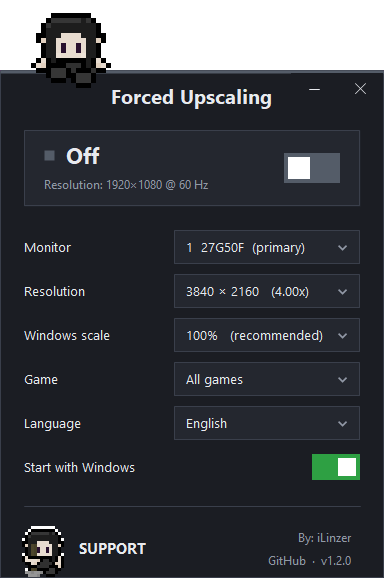
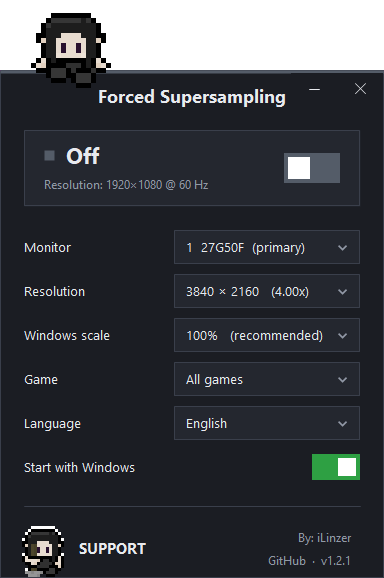
Rename to Forced Supersampling and add before and after pictures
The app renders above the screen size and the GPU scales the picture down, which is supersampling, not upscaling. The name now says that.

- New name in the window, tray, texts, README, build and releases. The settings folder, the autostart entry and the internal names keep the old spelling so nobody loses their settings.
- The autostart entry follows the exe if it was renamed or moved.
- Before and after pictures in both READMEs, One Piece: Pirate Warriors 3 first.
- README mentions that Windows would not change the resolution with two monitors connected and the app does.
- Title font a little smaller so the longer name clears the minimize button.
- New window screenshots, version 1.2.1.

Changed region(s): [[0.25, 0.1557, 0.75, 0.1869]]

diff --git a/src/Loc.cs b/src/Loc.cs
@@ -16,8 +16,8 @@ namespace ForcedUpscaling
         {
             { "open", new[] { "Open", "Abrir", "打开", "Abrir" } },
             { "resolution", new[] { "Resolution: {0}×{1} @ {2} Hz", "Resolução: {0}×{1} a {2} Hz", "分辨率：{0}×{1} @ {2} Hz", "Resolución: {0}×{1} a {2} Hz" } },
-            { "enable", new[] { "Turn on Forced Upscaling", "Ativar Forced Upscaling", "开启 Forced Upscaling", "Activar Forced Upscaling" } },
-            { "disable", new[] { "Forced Upscaling is on (click to turn off)", "Forced Upscaling ativo (clique para desativar)", "Forced Upscaling 已开启（点击关闭）", "Forced Upscaling activo (clic para desactivar)" } },
+            { "enable", new[] { "Turn on Forced Supersampling", "Ativar Forced Supersampling", "开启 Forced Supersampling", "Activar Forced Supersampling" } },
+            { "disable", new[] { "Forced Supersampling is on (click to turn off)", "Forced Supersampling ativo (clique para desativar)", "Forced Supersampling 已开启（点击关闭）", "Forced Supersampling activo (clic para desactivar)" } },
             { "monitor", new[] { "Monitor", "Monitor", "显示器", "Monitor" } },
             { "primary", new[] { "primary", "principal", "主显示器", "principal" } },
             { "res", new[] { "Resolution", "Resolução", "分辨率", "Resolución" } },
@@ -44,15 +44,15 @@ namespace ForcedUpscaling
             { "close", new[] { "Close", "Fechar", "关闭", "Cerrar" } },
             { "no_modes", new[] { "No DSR resolutions available", "Nenhuma resolução DSR disponível", "没有可用的 DSR 分辨率", "No hay resoluciones DSR disponibles" } },
             { "no_monitor", new[] { "Main monitor not found", "Monitor principal não encontrado", "未找到主显示器", "No se encontró el monitor principal" } },
-            { "tip_on", new[] { "Forced Upscaling: on ({0}×{1})", "Forced Upscaling: ativo ({0}×{1})", "Forced Upscaling：已开启（{0}×{1}）", "Forced Upscaling: activo ({0}×{1})" } },
-            { "tip_off", new[] { "Forced Upscaling: off", "Forced Upscaling: desativado", "Forced Upscaling：已关闭", "Forced Upscaling: desactivado" } },
-            { "on_title", new[] { "Forced Upscaling is on", "Forced Upscaling ativo", "Forced Upscaling 已开启", "Forced Upscaling activo" } },
+            { "tip_on", new[] { "Forced Supersampling: on ({0}×{1})", "Forced Supersampling: ativo ({0}×{1})", "Forced Supersampling：已开启（{0}×{1}）", "Forced Supersampling: activo ({0}×{1})" } },
+            { "tip_off", new[] { "Forced Supersampling: off", "Forced Supersampling: desativado", "Forced Supersampling：已关闭", "Forced Supersampling: desactivado" } },
+            { "on_title", new[] { "Forced Supersampling is on", "Forced Supersampling ativo", "Forced Supersampling 已开启", "Forced Supersampling activo" } },
             { "on_text", new[] {
                 "{0}×{1} on the main monitor. Open your game and turn it off here when you are done.",
                 "{0}×{1} no monitor principal. Abra o jogo e, ao terminar, desative aqui.",
                 "主显示器已切换到 {0}×{1}。请启动游戏，用完后在这里关闭。",
                 "{0}×{1} en el monitor principal. Abre el juego y desactívalo aquí al terminar." } },
-            { "off_title", new[] { "Forced Upscaling is off", "Forced Upscaling desativado", "Forced Upscaling 已关闭", "Forced Upscaling desactivado" } },
+            { "off_title", new[] { "Forced Supersampling is off", "Forced Supersampling desativado", "Forced Supersampling 已关闭", "Forced Supersampling desactivado" } },
             { "off_text", new[] { "The main monitor is back to {0}×{1}.", "O monitor principal voltou a {0}×{1}.", "主显示器已恢复为 {0}×{1}。", "El monitor principal vuelve a {0}×{1}." } },
             { "fail_title", new[] { "Could not turn it on", "Não foi possível ativar", "无法开启", "No se pudo activar" } },
             { "fail", new[] {

diff --git a/src/Settings.cs b/src/Settings.cs
@@ -7,6 +7,8 @@ using System.Windows.Forms;
 namespace ForcedUpscaling
 {
     // Plain key=value file in %APPDATA%\ForcedUpscaling
+    // The app used to be called Forced Upscaling. The folder, the autostart entry and the
+    // internal names keep the old spelling so nobody loses their settings after updating.
     class Settings
     {
         readonly string path;
@@ -90,6 +92,30 @@ namespace ForcedUpscaling
                 using (RegistryKey k = Registry.CurrentUser.OpenSubKey(RunKey))
                     return k != null && k.GetValue(ValueName) != null;
             }
+        }
+
+        // If the autostart entry points to a file that is gone, or to an older name of this
+        // exe in the same folder (the app was renamed), point it at the running exe.
+        public static void Refresh()
+        {
+            try
+            {
+                using (RegistryKey k = Registry.CurrentUser.OpenSubKey(RunKey, true))
+                {
+                    string current = k == null ? null : k.GetValue(ValueName) as string;
+                    if (string.IsNullOrEmpty(current)) return;
+                    string registered = current.Trim();
+                    if (registered.StartsWith("\"")) registered = registered.Substring(1, Math.Max(0, registered.IndexOf('"', 1) - 1));
+                    else if (registered.EndsWith(" --background")) registered = registered.Substring(0, registered.Length - " --background".Length);
+
+                    string running = Application.ExecutablePath;
+                    if (string.Equals(registered, running, StringComparison.OrdinalIgnoreCase)) return;
+                    bool gone = !File.Exists(registered);
+                    bool sameFolder = string.Equals(Path.GetDirectoryName(registered), Path.GetDirectoryName(running), StringComparison.OrdinalIgnoreCase);
+                    if (gone || sameFolder) k.SetValue(ValueName, "\"" + running + "\" --background");
+                }
+            }
+            catch (Exception ex) { Log.Write(ex); }
         }
 
         public static void Set(bool on)

diff --git a/src/MainWindow.cs b/src/MainWindow.cs
@@ -70,7 +70,7 @@ namespace ForcedUpscaling
             TransparencyKey = Theme.Key;
             DoubleBuffered = true;
             ShowInTaskbar = true;
-            Text = "Forced Upscaling";
+            Text = "Forced Supersampling";
             iconOn = Icons.Load(true, 32);
             iconOff = Icons.Load(false, 32);
 
@@ -260,7 +260,8 @@ namespace ForcedUpscaling
             Font[] old = { textFont, boldFont, bigFont, smallFont, supportFont };
 
             textFont = new Font(family, 9.5f);
-            boldFont = new Font(family, 15f, FontStyle.Bold);
+            // the title is longer now, 13 keeps it clear of the minimize button
+            boldFont = new Font(family, 13f, FontStyle.Bold);
             bigFont = new Font(family, 16f, FontStyle.Bold);
             smallFont = new Font(family, 9f);
             supportFont = new Font(family, 11f, FontStyle.Bold);
@@ -367,7 +368,7 @@ namespace ForcedUpscaling
             using (Pen p = new Pen(Theme.Border)) g.DrawRectangle(p, 0, PanelTop, W - 1, H - PanelTop - 1);
             using (Brush b = new SolidBrush(isOn ? Theme.Accent : Theme.Off)) g.FillRectangle(b, 0, PanelTop, W, 3);
 
-            TextRenderer.DrawText(g, "Forced Upscaling", boldFont, new Rectangle(0, PanelTop + 3, W, 45), Theme.Text,
+            TextRenderer.DrawText(g, "Forced Supersampling", boldFont, new Rectangle(0, PanelTop + 3, W, 45), Theme.Text,
                 TextFormatFlags.HorizontalCenter | TextFormatFlags.VerticalCenter | TextFormatFlags.NoPadding);
 
             // status card

diff --git a/src/Program.cs b/src/Program.cs
@@ -7,10 +7,10 @@ namespace ForcedUpscaling
 {
     static class App
     {
-        public const string Version = "1.2.0";
+        public const string Version = "1.2.1";
         public const string SupportUrl = "https://github.com/sponsors/Linzer-Cyberheart";
         public const string ChannelUrl = "https://www.youtube.com/@iLinzer?sub_confirmation=1";
-        public const string RepoUrl = "https://github.com/Linzer-Cyberheart/ForcedUpscaling";
+        public const string RepoUrl = "https://github.com/Linzer-Cyberheart/ForcedSupersampling";
 
         public static void Open(string url)
         {
@@ -42,6 +42,7 @@ namespace ForcedUpscaling
 
                 Settings settings = new Settings();
                 Loc.Set(settings.Get("lang", Loc.Detect()));
+                Autostart.Refresh();
 
                 // Started by Windows at logon: stay in the tray, don't open the window.
                 bool background = Array.IndexOf(args, "--background") >= 0;

diff --git a/src/AssemblyInfo.cs b/src/AssemblyInfo.cs
@@ -1,7 +1,7 @@
 using System.Reflection;
 
-[assembly: AssemblyTitle("Forced Upscaling")]
+[assembly: AssemblyTitle("Forced Supersampling")]
 [assembly: AssemblyDescription("Render games above your monitor resolution with DSR, for any game, with one click.")]
-[assembly: AssemblyProduct("Forced Upscaling")]
-[assembly: AssemblyVersion("1.2.0.0")]
-[assembly: AssemblyFileVersion("1.2.0.0")]
+[assembly: AssemblyProduct("Forced Supersampling")]
+[assembly: AssemblyVersion("1.2.1.0")]
+[assembly: AssemblyFileVersion("1.2.1.0")]

diff --git a/README.pt-BR.md b/README.pt-BR.md
@@ -1,8 +1,8 @@
 <p align="center">
-  <img src="assets/logo.png" width="96" alt="Logo do Forced Upscaling">
+  <img src="assets/logo.png" width="96" alt="Logo do Forced Supersampling">
 </p>
 
-<h1 align="center">Forced Upscaling</h1>
+<h1 align="center">Forced Supersampling</h1>
 
 <p align="center">
   Faça os jogos renderizarem acima da resolução do seu monitor com o DSR da NVIDIA e deixe a placa de vídeo reduzir a imagem depois.<br>
@@ -10,10 +10,10 @@
 </p>
 
 <p align="center">
-  <a href="https://github.com/Linzer-Cyberheart/ForcedUpscaling/releases/latest"><img alt="Última versão" src="https://img.shields.io/github/v/release/Linzer-Cyberheart/ForcedUpscaling"></a>
-  <a href="LICENSE"><img alt="Licença" src="https://img.shields.io/github/license/Linzer-Cyberheart/ForcedUpscaling"></a>
+  <a href="https://github.com/Linzer-Cyberheart/ForcedSupersampling/releases/latest"><img alt="Última versão" src="https://img.shields.io/github/v/release/Linzer-Cyberheart/ForcedSupersampling"></a>
+  <a href="LICENSE"><img alt="Licença" src="https://img.shields.io/github/license/Linzer-Cyberheart/ForcedSupersampling"></a>
   <img alt="Windows" src="https://img.shields.io/badge/plataforma-Windows-0078D4">
-  <img alt="Downloads" src="https://img.shields.io/github/downloads/Linzer-Cyberheart/ForcedUpscaling/total">
+  <img alt="Downloads" src="https://img.shields.io/github/downloads/Linzer-Cyberheart/ForcedSupersampling/total">
 </p>
 
 <p align="center">
@@ -21,9 +21,15 @@
 </p>
 
 <p align="center">
-  <img src="docs/window-on.png" width="320" alt="Janela do Forced Upscaling ligado">
+  <img src="docs/compare/one-piece-pirate-warriors-3.jpg" width="880" alt="One Piece: Pirate Warriors 3, Forced Supersampling desligado à esquerda e ligado à direita">
+  <br>
+  <sub>One Piece: Pirate Warriors 3. Desligado à esquerda, ligado à direita. Só o programa ligado, nada específico do jogo.</sub>
+</p>
+
+<p align="center">
+  <img src="docs/window-on.png" width="320" alt="Janela do Forced Supersampling ligado">
   &nbsp;&nbsp;
-  <img src="docs/window-off.png" width="320" alt="Janela do Forced Upscaling desligado">
+  <img src="docs/window-off.png" width="320" alt="Janela do Forced Supersampling desligado">
 </p>
 
 ## O que ele faz
@@ -32,15 +38,43 @@ Muitos jogos de PC, principalmente os mais antigos e as conversões de console, 
 
 O DSR (Dynamic Super Resolution) da NVIDIA faz o Windows oferecer resoluções maiores do que o monitor consegue exibir, por exemplo 3840 x 2160 em uma tela 1080p. A placa renderiza nesse tamanho e reduz o resultado para caber. Isso é supersampling: as bordas ficam mais suaves e os detalhes mais limpos, sem mexer nas configurações do jogo.
 
-O Forced Upscaling coloca isso atrás de um ícone na bandeja. Ligue, abra qualquer jogo, desligue quando terminar.
+O Forced Supersampling coloca isso atrás de um ícone na bandeja. Ligue, abra qualquer jogo, desligue quando terminar.
 
 Fiz para o OneeChanbara Origin. O arquivo de configuração dele tem a opção 3840 x 2160, mas em modo sem borda o jogo ignora e desenha no tamanho da área de trabalho. Com a área de trabalho em 4K, o jogo finalmente renderiza em 4K.
+
+## Mais antes e depois
+
+Desligado à esquerda, ligado à direita, no mesmo ponto do jogo.
+
+<p align="center">
+  <img src="docs/compare/onechanbara-origin-1.jpg" width="880" alt="OneeChanbara Origin, desligado à esquerda e ligado à direita">
+  <br>
+  <sub>OneeChanbara Origin. Só o programa ligado.</sub>
+</p>
+
+<p align="center">
+  <img src="docs/compare/onechanbara-origin-2.jpg" width="880" alt="OneeChanbara Origin, desligado à esquerda e ligado à direita">
+  <br>
+  <sub>OneeChanbara Origin. Só o programa ligado.</sub>
+</p>
+
+<p align="center">
+  <img src="docs/compare/onechanbara-z2-chaos.jpg" width="880" alt="Onechanbara Z2: Chaos, desligado à esquerda e ligado à direita">
+  <br>
+  <sub>Onechanbara Z2: Chaos, com o ajuste "Resolução interna".</sub>
+</p>
+
+<p align="center">
+  <img src="docs/compare/dw8-empires.jpg" width="880" alt="Dynasty Warriors 8 Empires, desligado à esquerda e ligado à direita">
+  <br>
+  <sub>Dynasty Warriors 8 Empires, com a correção do jogo.</sub>
+</p>
 
 ## Recursos
 
 - Um clique pela bandeja ou pela janela, sem instalação, um único `.exe`
 - Funciona com qualquer jogo que renderize no tamanho da área de trabalho (modo sem borda e em janela)
-- Vários monitores: você escolhe qual usar, os outros mantêm a resolução
+- Funciona com mais de um monitor: você escolhe qual usar, os outros mantêm a resolução. No meu PC o Windows não deixava trocar a resolução com dois monitores conectados, e o app resolve isso
 - Escolha a resolução (1.50x, 2.00x, 4.00x, o que o seu driver oferecer)
 - Controla a escala do Windows enquanto está ligado, assim jogos antigos que não entendem DPI recebem a resolução real
 - Tudo é temporário. Nada é gravado no registro e reiniciar sempre devolve o monitor ao normal
@@ -50,9 +84,11 @@ Fiz para o OneeChanbara Origin. O arquivo de configuração dele tem a opção 3
 
 ## Download
 
-1. Baixe o `ForcedUpscaling.exe` na [última versão](https://github.com/Linzer-Cyberheart/ForcedUpscaling/releases/latest).
+1. Baixe o `ForcedSupersampling.exe` na [última versão](https://github.com/Linzer-Cyberheart/ForcedSupersampling/releases/latest).
 2. Coloque em uma pasta que você não vai apagar. Se ativar "Iniciar com o Windows", ele abre a partir dela.
 3. Execute. A janela abre e um ícone aparece na bandeja.
+
+O Forced Supersampling se chamava Forced Upscaling até a versão 1.2.0. É o mesmo app e suas configurações continuam. Se você usa "Iniciar com o Windows", a entrada se corrige sozinha na primeira vez que abrir o novo exe, e dá para apagar o antigo.
 
 O Windows SmartScreen pode reclamar na primeira vez, porque o arquivo não é assinado. Se preferir não confiar em um exe qualquer, o código-fonte é curto e o `build.bat` compila em alguns segundos (veja abaixo).
 
@@ -107,7 +143,7 @@ A maioria dos jogos em tela cheia exclusiva lista as resoluções DSR no própri
 Vai. 3840 x 2160 tem quatro vezes os pixels de 1920 x 1080, então a placa trabalha bem mais. Se o 4K pesar demais, teste 1.50x ou 2.00x.
 
 **E os meus outros monitores?**
-Só o monitor que você escolher na janela (ou no menu da bandeja) muda. Os outros mantêm a resolução. Enquanto um monitor está no modo maior, o Windows pode posicionar os vizinhos de um jeito um pouco diferente, e eles voltam quando você desliga.
+Só o monitor que você escolher na janela (ou no menu da bandeja) muda. Os outros mantêm a resolução. Funciona com dois monitores conectados, o que o próprio Windows se recusava a fazer no meu PC. Enquanto um monitor está no modo maior, o Windows pode posicionar os vizinhos de um jeito um pouco diferente, e eles voltam quando você desliga.
 
 **AMD ou Intel?**
 O app pede ao Windows qualquer resolução maior que a atual com a mesma proporção, então o que o seu driver listar aparece, inclusive o VSR da AMD. Só testei em NVIDIA, então não prometo nada.
@@ -126,7 +162,7 @@ Basta o Windows. O compilador de C# que acompanha o .NET Framework 4 é suficien
 build.bat
 ```
 
-O resultado é `bin\ForcedUpscaling.exe`, com os ícones e as animações embutidos.
+O resultado é `bin\ForcedSupersampling.exe`, com os ícones e as animações embutidos.
 
 ## Como funciona
 

diff --git a/README.md b/README.md
@@ -1,8 +1,8 @@
 <p align="center">
-  <img src="assets/logo.png" width="96" alt="Forced Upscaling logo">
+  <img src="assets/logo.png" width="96" alt="Forced Supersampling logo">
 </p>
 
-<h1 align="center">Forced Upscaling</h1>
+<h1 align="center">Forced Supersampling</h1>
 
 <p align="center">
   Make games render above your monitor's resolution with NVIDIA DSR, then let the GPU scale the picture back down.<br>
@@ -10,10 +10,10 @@
 </p>
 
 <p align="center">
-  <a href="https://github.com/Linzer-Cyberheart/ForcedUpscaling/releases/latest"><img alt="Latest release" src="https://img.shields.io/github/v/release/Linzer-Cyberheart/ForcedUpscaling"></a>
-  <a href="LICENSE"><img alt="License" src="https://img.shields.io/github/license/Linzer-Cyberheart/ForcedUpscaling"></a>
+  <a href="https://github.com/Linzer-Cyberheart/ForcedSupersampling/releases/latest"><img alt="Latest release" src="https://img.shields.io/github/v/release/Linzer-Cyberheart/ForcedSupersampling"></a>
+  <a href="LICENSE"><img alt="License" src="https://img.shields.io/github/license/Linzer-Cyberheart/ForcedSupersampling"></a>
   <img alt="Windows" src="https://img.shields.io/badge/platform-Windows-0078D4">
-  <img alt="Downloads" src="https://img.shields.io/github/downloads/Linzer-Cyberheart/ForcedUpscaling/total">
+  <img alt="Downloads" src="https://img.shields.io/github/downloads/Linzer-Cyberheart/ForcedSupersampling/total">
 </p>
 
 <p align="center">
@@ -21,9 +21,15 @@
 </p>
 
 <p align="center">
-  <img src="docs/window-on.png" width="320" alt="Forced Upscaling window, turned on">
+  <img src="docs/compare/one-piece-pirate-warriors-3.jpg" width="880" alt="One Piece: Pirate Warriors 3, Forced Supersampling off on the left and on on the right">
+  <br>
+  <sub>One Piece: Pirate Warriors 3. Off on the left, on on the right. Just the program turned on, nothing specific to the game.</sub>
+</p>
+
+<p align="center">
+  <img src="docs/window-on.png" width="320" alt="Forced Supersampling window, turned on">
   &nbsp;&nbsp;
-  <img src="docs/window-off.png" width="320" alt="Forced Upscaling window, turned off">
+  <img src="docs/window-off.png" width="320" alt="Forced Supersampling window, turned off">
 </p>
 
 ## What it does
@@ -32,15 +38,43 @@ A lot of PC games, mostly older ones and console ports, run in borderless window
 
 NVIDIA's DSR (Dynamic Super Resolution) lets Windows offer resolutions higher than your monitor can display, for example 3840 x 2160 on a 1080p screen. The GPU renders at that size and scales the result down to fit. That is supersampling: edges get smoother and fine detail gets cleaner, without touching the game's own settings.
 
-Forced Upscaling puts that behind a tray icon. Turn it on, start any game, turn it off when you're done.
+Forced Supersampling puts that behind a tray icon. Turn it on, start any game, turn it off when you're done.
 
 I made it for OneeChanbara Origin. Its config file has a 3840 x 2160 option, but in borderless mode the game ignores it and draws at your desktop size. With the desktop in 4K, the game finally renders in 4K.
+
+## More before and after
+
+Off on the left, on on the right, same spot in the game.
+
+<p align="center">
+  <img src="docs/compare/onechanbara-origin-1.jpg" width="880" alt="OneeChanbara Origin, off on the left and on on the right">
+  <br>
+  <sub>OneeChanbara Origin. Only the program turned on.</sub>
+</p>
+
+<p align="center">
+  <img src="docs/compare/onechanbara-origin-2.jpg" width="880" alt="OneeChanbara Origin, off on the left and on on the right">
+  <br>
+  <sub>OneeChanbara Origin. Only the program turned on.</sub>
+</p>
+
+<p align="center">
+  <img src="docs/compare/onechanbara-z2-chaos.jpg" width="880" alt="Onechanbara Z2: Chaos, off on the left and on on the right">
+  <br>
+  <sub>Onechanbara Z2: Chaos, with the "Internal resolution" setting.</sub>
+</p>
+
+<p align="center">
+  <img src="docs/compare/dw8-empires.jpg" width="880" alt="Dynasty Warriors 8 Empires, off on the left and on on the right">
+  <br>
+  <sub>Dynasty Warriors 8 Empires, with its game fix.</sub>
+</p>
 
 ## Features
 
 - One click from the tray icon or the window, no install, a single `.exe`
 - Works with any game that renders at the desktop size (borderless and windowed modes)
-- Multiple monitors: you choose which one to use, the others keep their resolution
+- Works with more than one monitor: you choose which one to use, the others keep their resolution. On my PC Windows would not let me change the resolution with two monitors connected, and the app handles it
 - Pick the resolution you want (1.50x, 2.00x, 4.00x, whatever your driver offers)
 - Controls the Windows scale while it's on, so old games that don't understand DPI settings still get the real resolution
 - Everything is temporary. Nothing is written to the registry, and a reboot always brings your monitor back
@@ -50,9 +84,11 @@ I made it for OneeChanbara Origin. Its config file has a 3840 x 2160 option, but
 
 ## Download
 
-1. Get `ForcedUpscaling.exe` from the [latest release](https://github.com/Linzer-Cyberheart/ForcedUpscaling/releases/latest).
+1. Get `ForcedSupersampling.exe` from the [latest release](https://github.com/Linzer-Cyberheart/ForcedSupersampling/releases/latest).
 2. Put it in a folder you won't delete. If you turn on "Start with Windows" it launches from there.
 3. Run it. The window opens and an icon shows up in the tray.
+
+Forced Supersampling was called Forced Upscaling until version 1.2.0. It is the same app and your settings carry over. If you use "Start with Windows", the entry fixes itself the first time you open the new exe, and you can delete the old one.
 
 Windows SmartScreen may complain the first time, because the file isn't code signed. If you'd rather not trust a random exe, the source is short and `build.bat` builds it in a few seconds (see below).
 
@@ -107,7 +143,7 @@ Most exclusive fullscreen games list the DSR resolutions in their own menu, so y
 Yes. 3840 x 2160 is four times the pixels of 1920 x 1080, so the GPU has a lot more work. Try 1.50x or 2.00x if 4K is too heavy.
 
 **What happens to my other monitors?**
-Only the monitor you pick in the window (or the tray menu) changes. The others keep their resolution. While one monitor is in the bigger mode, Windows may place its neighbors a bit differently, and they go back when you turn the mode off.
+Only the monitor you pick in the window (or the tray menu) changes. The others keep their resolution. This works with two monitors connected, which Windows itself refused to do on my PC. While one monitor is in the bigger mode, Windows may place its neighbors a bit differently, and they go back when you turn the mode off.
 
 **AMD or Intel?**
 The app asks Windows for any resolution larger than your current one with the same aspect ratio, so anything your driver lists will show up, AMD's VSR included. I've only tested it on NVIDIA, so I can't promise anything.
@@ -126,7 +162,7 @@ You only need Windows. The C# compiler that ships with .NET Framework 4 is enoug
 build.bat
 ```
 
-The result is `bin\ForcedUpscaling.exe`, with the icons and animations built into it.
+The result is `bin\ForcedSupersampling.exe`, with the icons and animations built into it.
 
 ## How it works
 
